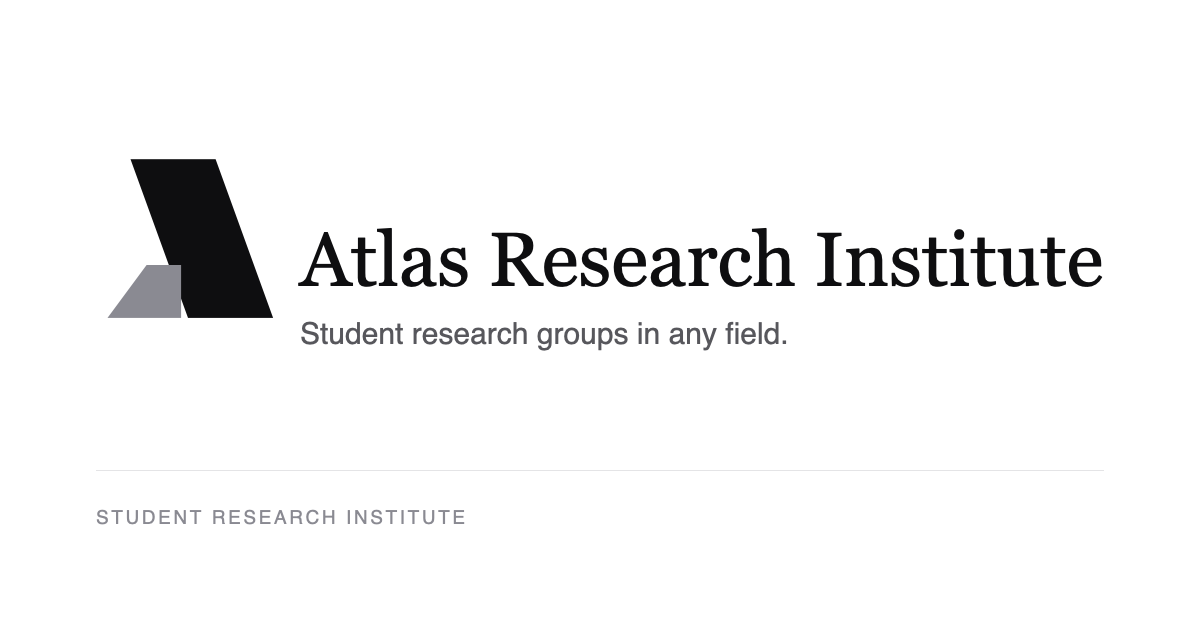
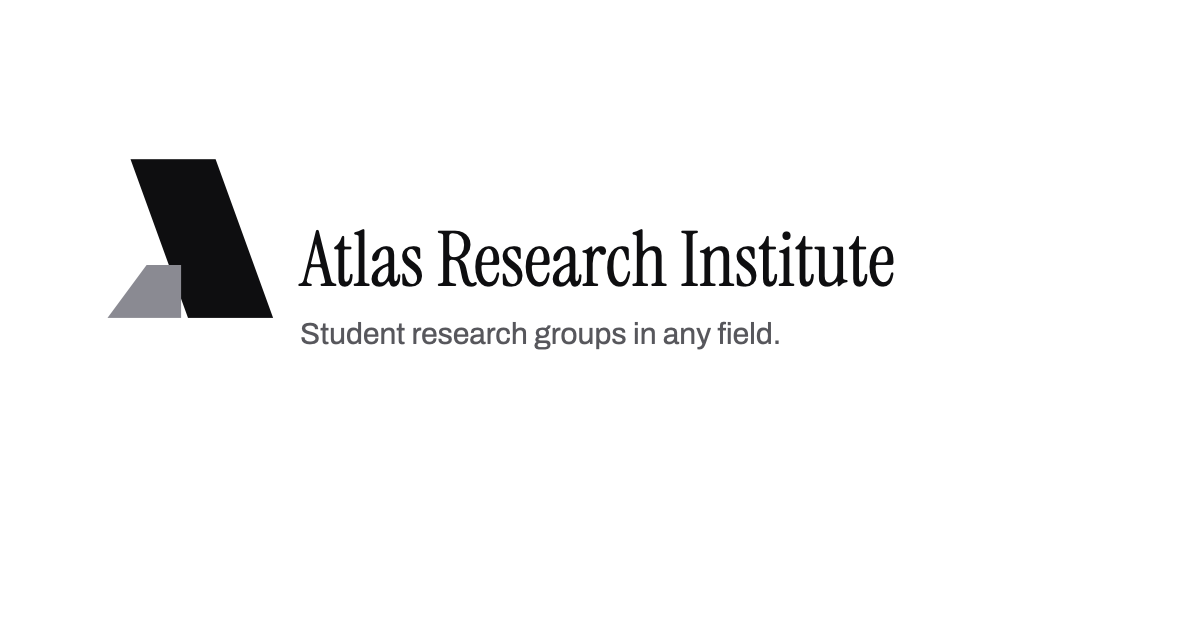
Phase 11: drop the lockup descriptor, rename two roles, replace role copy
LOCKUP. The descriptor line is deleted. It set "STUDENT RESEARCH INSTITUTE"
under "Atlas Research Institute", repeating "Research Institute" twice in one
lockup. The lockup is now the mark plus the wordmark, nothing beneath, with a
comment saying not to reintroduce one. Removed as a standalone tagline from
og.svg and the README's copy rules too — it was still sitting in the OG image
footer.

ROLES. Fellowship Mentor becomes Youth Research TA, Logistics Analyst becomes
Logistics Analyst Intern, slugs updated to match. No redirects were needed:
role slugs are only React keys, never URLs or anchors, so nothing external
points at them. Research Group Leader keeps its title — the rename list named
exactly two roles, and the "RESEARCH GROUP LEAD" heading in the brief reads as
a label for which copy block follows rather than a third rename.

COPY. All six role descriptions, one-liners, responsibilities, and lookingFor
lists replaced verbatim. Nothing rewritten, expanded, or padded, and no closing
lines added. Applied by locating each role's object literal and substituting
fields, so no neighbouring data moved. updatedAt stamped.

OG IMAGE. Regenerated with the real face. Instrument Serif and Archivo were
fetched from Google Fonts and installed to ~/Library/Fonts, so qlmanage now
rasterises the wordmark in Instrument Serif rather than the Georgia fallback.
No project dependency added. Verified by reading the PNG back.

STATEMENT PANEL. Unchanged, on ink.
[…]

Changed region(s): [[0.2467, 0.3619, 0.925, 0.4524], [0.2467, 0.5127, 0.6475, 0.573], [0.0617, 0.8143, 0.37, 0.8444]]

diff --git a/src/data/openings.ts b/src/data/openings.ts
@@ -117,33 +117,30 @@ export const OPENINGS: Opening[] = [
     selectivity: null,
     commitment: null,
     oneLine:
-      "Start and lead a local Atlas research group — a working research community, not an honorary title.",
+      "Run a research group at your school or online.",
     description:
-      "Research Group Leaders run a local Atlas research group at a school, in a community setting, as a hybrid, or fully online. The role is to recruit a reliable team, identify an issue in your own local context, and guide a structured research project through to a concrete output — while communicating openly with Atlas and upholding research integrity throughout.\n\nResearch groups are topic agnostic. A group may investigate a question in any discipline, so long as the question matters where the group is and the team can study it honestly with the access it actually has.\n\nA research group is a working research community, not an honorary title. Leading one means holding a meeting cadence, keeping records, chasing people who owe work, and finishing something real.",
+      "You pick the question and recruit the members. Atlas gives you the structure, a mentor to check your work, and somewhere to submit it at the end. Most groups run three to ten people over one term. You are responsible for whether it finishes.",
     responsibilities: [
-      "Secure school or community approval where it is required, before recruiting.",
-      "Recruit members and set clear expectations for participation, conduct, and deadlines.",
-      "Guide the team to a focused research question and a scope it can realistically complete.",
-      "Maintain a meeting cadence, weekly logs, and organized records.",
-      "Require credible sources, accurate citations, and honest discussion of limitations.",
-      "Communicate with Atlas and raise risks or delays early, not after they land.",
-      "Submit milestones and the final product for review.",
-      "Represent Atlas professionally in every school, community, and partner interaction.",
+      "Get permission from your school if your school requires it",
+      "Recruit members and tell them what you expect",
+      "Narrow the question until it is answerable",
+      "Run meetings and keep the log current",
+      "Check sources and citations before anything goes out",
+      "Tell Atlas early when something slips",
+      "Submit the finished work for review",
     ],
     lookingFor: [
-      "Reliability and follow-through — you finish what you start, including the boring middle.",
-      "Clear, professional communication with peers, adults, and institutions.",
-      "Genuine intellectual curiosity about a question in your own context.",
-      "The ability to organize people without over-controlling them.",
-      "Respect for evidence and a real willingness to take feedback.",
-      "Realistic planning, and early communication when difficulties arise.",
-      "Commitment to expanding research access where you are.",
+      "You finish things",
+      "You write clearly",
+      "You can run a group without controlling everyone in it",
+      "You take feedback without arguing",
+      "You say when you are behind instead of going quiet",
     ],
     regions: null,
     deadline: null,
     formUrl: RESEARCH_GROUP_FORM_URL,
     formNote: null,
-    updatedAt: "2026-08-16",
+    updatedAt: "2026-08-17",
   },
   {
     slug: "regional-youth-director",
@@ -154,24 +151,22 @@ export const OPENINGS: Opening[] = [
     selectivity: "Extremely selective",
     commitment: "5-8+ hours per week",
     oneLine:
-      "Lead Atlas growth and operating quality across an assigned region, and hold the line on both.",
+      "Build and support research groups across one region.",
     description:
-      "Regional Youth Directors lead Atlas growth and operating quality across an assigned region. The role is the primary link between Atlas leadership, research group teams, schools, and regional partners — the person who knows what is actually happening on the ground and reports it accurately.\n\nThe work is equal parts expansion and quality control. A Director recruits and supports new research groups, but is also responsible for whether existing research groups in the region are meeting, progressing, and producing work that holds up to review.\n\nInternational regions may have more than one Director depending on scale, time zones, and language. Assignments are made based on where a Director can genuinely operate, not on map boundaries alone.",
+      "You recruit group leads in your region, help them get started, and keep track of whether their projects are actually moving. When a group stalls you find out why. Ten regions, and some international regions have more than one director depending on size, time zones, and language.",
     responsibilities: [
-      "Own research group growth in the assigned region: outreach to schools and community organizations, and support through launch.",
-      "Serve as the standing point of contact between Atlas leadership and every research group team in the region.",
-      "Monitor operating quality across regional research groups — cadence, progress, and record-keeping — and intervene early when a group stalls.",
-      "Build and maintain relationships with regional partners, schools, and community organizations.",
-      "Report regional status to Atlas leadership accurately, including problems and stalled research groups.",
-      "Coordinate with other Directors where a region is split across time zones or languages.",
+      "Recruit and onboard new group leads",
+      "Check in on groups and flag the ones going quiet",
+      "Reach out to schools and teachers in your region",
+      "Report what is working and what is not",
+      "Coordinate with the other directors in shared regions",
     ],
     lookingFor: [
-      "A track record of running things that involved other people and finishing them.",
-      "Judgment about when a group needs support and when it needs a hard conversation.",
-      "Professional communication with school administrators, community leaders, and partners.",
-      "Honest reporting — you surface the research groups that are failing, not just the ones that look good.",
-      "Regional knowledge: you understand the schools, languages, and constraints where you would operate.",
-      "Availability of 5-8+ hours per week, sustained, across an academic year.",
+      "You have run something with other people in it",
+      "You follow up without being asked twice",
+      "You write a clear update",
+      "You are comfortable being told your region is behind",
+      "You can work across time zones and languages",
     ],
     regions: [
       "America – West",
@@ -188,39 +183,38 @@ export const OPENINGS: Opening[] = [
     deadline: null,
     formUrl: TEAM_FORM_URL,
     formNote: TEAM_FORM_NOTE,
-    updatedAt: "2026-08-16",
+    updatedAt: "2026-08-17",
   },
   {
-    slug: "logistics-analyst",
-    title: "Logistics Analyst",
+    slug: "logistics-analyst-intern",
+    title: "Logistics Analyst Intern",
     category: "team",
     area: "Program operations",
     status: "rolling",
     selectivity: "Selective",
     commitment: "2-4 hours per week",
     oneLine:
-      "Strengthen the operating systems behind Atlas programs so nothing depends on someone remembering.",
+      "Keep the calendars, trackers, and deadlines straight.",
     description:
-      "Logistics Analysts strengthen the operating systems behind Atlas programs: calendars, attendance and submission trackers, webinar logistics, status reporting, and documented operating procedures.\n\nThe role exists because programs fail quietly — a deadline nobody tracked, a session nobody set up, a submission nobody logged. The Analyst builds the systems that make those failures visible before they happen.\n\nThe measure of the work is that things run the same way whether or not any particular person is paying attention that week.",
+      "Sessions need scheduling. Forms need chasing. Submissions go missing. You own the systems that keep those from becoming problems, and you tell leadership when something is about to slip.",
     responsibilities: [
-      "Maintain program calendars and keep deadlines accurate across every Atlas program.",
-      "Own attendance and submission trackers, and flag gaps to program leads while there is still time to fix them.",
-      "Run webinar and session logistics end to end: scheduling, setup, access links, and follow-up.",
-      "Produce regular status reports that show real progress, not activity.",
-      "Write and maintain documented operating procedures so processes survive turnover.",
+      "Keep the calendar and the submission tracker current",
+      "Chase missing forms and logs",
+      "Handle session logistics and reminders",
+      "Spot scheduling conflicts before they happen",
+      "Write down how a process works so the next person can run it",
     ],
     lookingFor: [
-      "Comfort with spreadsheets, trackers, and scheduling tools, and the patience to keep them current.",
-      "Attention to detail — you notice the row that is missing.",
-      "Clear written documentation: someone else can follow what you wrote without asking you.",
-      "Consistency over intensity; the work is small, recurring, and unglamorous.",
-      "Availability of 2-4 hours per week on a predictable schedule.",
+      "You are good with spreadsheets",
+      "You notice when something is missing",
+      "You send the reminder nobody asked you to send",
+      "You are fine with unglamorous work that matters",
     ],
     regions: null,
     deadline: null,
     formUrl: TEAM_FORM_URL,
     formNote: TEAM_FORM_NOTE,
-    updatedAt: "2026-08-16",
+    updatedAt: "2026-08-17",
   },
   {
     slug: "marketing-associate",
@@ -231,28 +225,26 @@ export const OPENINGS: Opening[] = [
     selectivity: "Selective",
     commitment: "2-4 hours per week",
     oneLine:
-      "Research the audience, shape credible campaigns, and support outreach that holds up to scrutiny.",
+      "Get the right students to hear about Atlas.",
     description:
-      "Marketing Associates work on audience and program research, campaign concepts, credible messaging for email, web, and partner outreach, outreach support, and performance review.\n\nThe constraint that defines the role is credibility. Atlas messaging describes what Atlas actually does — no inflated numbers, no implied guarantees, no borrowed prestige. Copy that overstates is a liability, not a win.\n\nAssociates also close the loop: campaigns get reviewed against what they actually produced, and that review feeds the next one.",
+      "You figure out where students who would actually finish a research project spend time, and you reach them there. You write the emails and the copy. You do not overstate what Atlas is.",
     responsibilities: [
-      "Research the audiences Atlas is trying to reach and what each program actually offers them.",
-      "Develop campaign concepts and take them from idea to a concrete plan.",
-      "Draft credible messaging for email, web, and partner outreach that describes Atlas accurately.",
-      "Support outreach to schools, community organizations, and prospective partners.",
-      "Review campaign performance and report what worked, what did not, and what changes next time.",
+      "Find where the right students already are",
+      "Write email and web copy",
+      "Reach out to schools and student groups",
+      "Track what worked and drop what did not",
     ],
     lookingFor: [
-      "Clear, plain writing — you can explain a program without inflating it.",
-      "Instinct for what a specific audience actually needs to hear.",
-      "Willingness to check a claim before publishing it.",
-      "Comfort reading basic performance data and drawing an honest conclusion from it.",
-      "Availability of 2-4 hours per week.",
+      "You write well",
+      "You can tell the difference between accurate and impressive",
+      "You are curious about why people say yes",
+      "You check numbers before you use them",
     ],
     regions: null,
     deadline: null,
     formUrl: TEAM_FORM_URL,
     formNote: TEAM_FORM_NOTE,
-    updatedAt: "2026-08-16",
+    updatedAt: "2026-08-17",
   },
   {
     slug: "social-media-manager",
@@ -263,64 +255,58 @@ export const OPENINGS: Opening[] = [
     selectivity: "Highly selective",
     commitment: "3-5 hours per week",
     oneLine:
-      "Own the content calendar and the day-to-day quality of Atlas's public social presence.",
+      "Run the accounts and the content calendar.",
     description:
-      "The Social Media Manager owns the content calendar and the day-to-day quality of Atlas's public social presence across approved platforms.\n\nThis is a public-facing voice role. Everything posted is an Atlas statement, which means accuracy comes before reach: no overstated outcomes, no implied publication guarantees, no claims that have not been confirmed.\n\nThe job is steady output at a consistent standard — planning ahead, writing and scheduling posts, responding to what comes back, and keeping a visual and verbal identity that reads as one organization.",
+      "Everything you post is Atlas saying it. That means accuracy comes before reach, and anything you are unsure about goes past leadership first. You own the calendar and the standard.",
     responsibilities: [
-      "Own and maintain the content calendar across approved platforms.",
-      "Write, schedule, and publish posts at a consistent cadence and standard.",
-      "Keep a consistent visual and verbal identity across every channel.",
-      "Monitor replies, mentions, and messages, and respond or escalate appropriately.",
-      "Verify every factual claim before it is posted; route anything uncertain to Atlas leadership first.",
-      "Report on what content actually reached people and adjust the calendar accordingly.",
+      "Build and keep the content calendar",
+      "Write and schedule posts",
+      "Reply to messages or pass them up",
+      "Check every claim before it goes out",
+      "Report what actually reached people",
     ],
     lookingFor: [
-      "Strong short-form writing with a professional register — engaging without being loud.",
-      "Reliable cadence; you post on schedule without being chased.",
-      "Design sense sufficient to keep visuals consistent.",
-      "Judgment about what should not be posted, and when to ask first.",
-      "Working knowledge of the platforms Atlas uses and how each one actually behaves.",
-      "Availability of 3-5 hours per week.",
+      "You have run an account, a publication, or a campaign",
+      "You write well and quickly",
+      "Your judgment is good under pressure",
+      "You post on time",
     ],
     regions: null,
     deadline: null,
     formUrl: TEAM_FORM_URL,
     formNote: TEAM_FORM_NOTE,
-    updatedAt: "2026-08-16",
+    updatedAt: "2026-08-17",
   },
   {
-    slug: "fellowship-mentor",
-    title: "Fellowship Mentor",
+    slug: "youth-research-ta",
+    title: "Youth Research TA",
     category: "team",
     area: "Research mentorship",
     status: "rolling",
     selectivity: "Highly selective",
     commitment: "3-5 hours per week",
     oneLine:
-      "Guide fellows through research questions, sources, analysis, and revision — with structured feedback on a schedule.",
+      "Give feedback on student research while it is being written.",
     description:
-      "Fellowship Mentors guide fellows on research questions, source use, project planning, analysis, and revision. The work runs on structured feedback, scheduled check-ins, and modeling academic integrity in practice rather than describing it.\n\nMentors do not do the research. The role is to sharpen a fellow's question, push back on weak sourcing, catch scope that has grown unrealistic, and make sure limitations are stated honestly in the final work.\n\nMentorship is a commitment to specific fellows for the length of a cohort. Missed check-ins cost a fellow real progress, so consistency matters more than credentials here.",
+      "You read questions, sources, and drafts, and you tell students specifically what is wrong and what to do about it. You do not write it for them. The goal is that they need you less by the end.",
     responsibilities: [
-      "Hold scheduled check-ins with assigned fellows and keep them.",
-      "Help fellows narrow a research question to something answerable within the cohort.",
-      "Review source quality and citation accuracy, and require corrections where needed.",
-      "Give structured written feedback on drafts, focused on evidence and reasoning.",
-      "Guide analysis and revision without doing the fellow's work for them.",
-      "Model academic integrity directly: attribution, honest limitations, and no overstated conclusions.",
+      "Help students narrow a question until it can be answered",
+      "Read drafts and return specific changes",
+      "Hold scheduled check-ins",
+      "Flag problems to program leadership early",
+      "Correct weak sources and bad citations without being harsh about it",
     ],
     lookingFor: [
-      "Research experience you can teach from — you can explain why a source is weak, not just that it is.",
-      "Feedback that is specific and usable rather than encouraging and vague.",
-      "Reliability across a full cohort; fellows depend on the check-ins happening.",
-      "Patience with beginners and no interest in taking over their projects.",
-      "A firm line on integrity, including when it is inconvenient.",
-      "Availability of 3-5 hours per week for the duration of a cohort.",
+      "You have written something researched and finished it",
+      "Your feedback is specific rather than encouraging",
+      "You are patient",
+      "You know the difference between helping and doing it for them",
     ],
     regions: null,
     deadline: null,
     formUrl: TEAM_FORM_URL,
     formNote: TEAM_FORM_NOTE,
-    updatedAt: "2026-08-16",
+    updatedAt: "2026-08-17",
   },
 ];
 

diff --git a/src/components/AtlasMark.tsx b/src/components/AtlasMark.tsx
@@ -58,10 +58,10 @@ export function AtlasMark({
 }
 
 /**
- * The full lockup: mark, institution name in Instrument Serif, and the
- * tagline in Archivo small caps beneath.
+ * The lockup: the mark plus "Atlas Research Institute" in Instrument Serif.
  *
- * The tagline "Student Research Institute" is fixed brand copy. Do not reword.
+ * NOTHING SITS BENEATH THE WORDMARK. A descriptor line here repeated "Research
+ * Institute" twice in the same lockup. Do not reintroduce one.
  */
 export function AtlasLockup({
   size = 32,
@@ -88,21 +88,13 @@ export function AtlasLockup({
       )}
     >
       <AtlasMark size={size} tone={tone} />
-      <span className="flex flex-col leading-tight">
-        <span
-          className={cn(
-            "font-display text-[17px] leading-none",
-            onInk ? "text-paper" : "text-ink"
-          )}
-        >
-          Atlas Research Institute
-        </span>
-        <span
-          className="font-sans text-[8px] uppercase tracking-lockup mt-1"
-          style={{ color: FAINT }}
-        >
-          Student Research Institute
-        </span>
+      <span
+        className={cn(
+          "font-display text-[17px] leading-none",
+          onInk ? "text-paper" : "text-ink"
+        )}
+      >
+        Atlas Research Institute
       </span>
     </span>
   );

diff --git a/README.md b/README.md
@@ -61,7 +61,9 @@ Rules that are easy to break by accident:
 ### Brand mark
 
 `src/components/AtlasMark.tsx` exports `AtlasMark` (mark alone) and
-`AtlasLockup` (mark plus wordmark and tagline, horizontal or stacked). The
+`AtlasLockup` (mark plus the wordmark, horizontal or stacked). **Nothing sits
+beneath the wordmark** — a descriptor line there repeated "Research Institute"
+twice. The
 geometry is two fixed paths on a `0 0 170 160` viewBox — do not nudge them, the
 counter is what makes the pair read as an A and it is already tight at 16px.
 
@@ -135,7 +137,6 @@ and rules before adding any.
   student-run** at the organisational level.
 - Eligibility is prose, not a grade range. Never "9-12".
 - Contact is `admin@atlas-research.org` everywhere.
-- Logo tagline is "Student Research Institute".
 - Banned words: empower, foster, robust, holistic, comprehensive, leverage,
   unlock, cutting-edge, seamless, journey, passionate, dedicated to.
 
